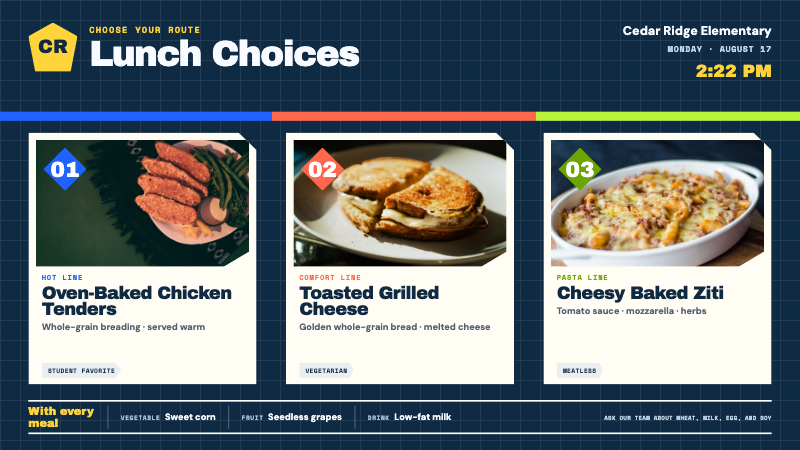
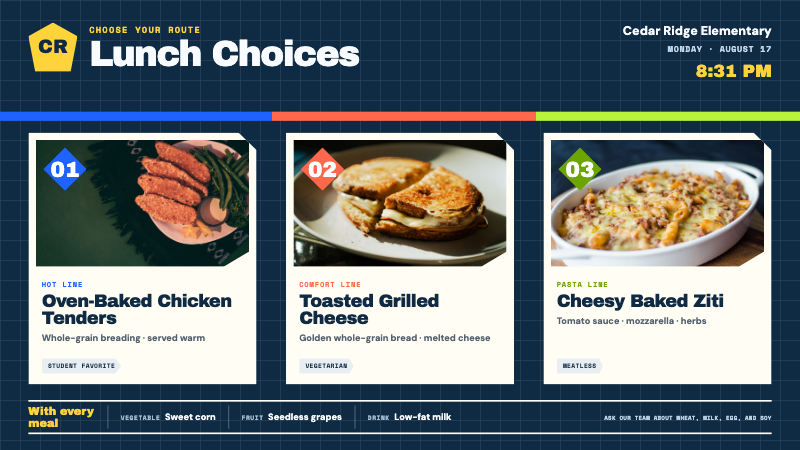
fix(templates): restore Codex-approved geometry exactly — remove my rebalances
The three spacing tweaks I layered onto the approved choice boards
(v2 card copy/tag spacing, v3 portrait school column + clock, v7 window
photo/name/description geometry) were implementation-side design
decisions. Operator rule: implementation never alters approved design.
Production <style> is now byte-identical to the approved mockups modulo
the three sanctioned mechanical substitutions (asset paths, --text-muted
token mapping, inset longhand) — proven by automated diff.

Harness: over-budget stress-copy overlap downgraded to a warning (the
mandated stress strings exceed the published editor budgets; default
copy stays hard-asserted collision-free in the generic pass, and
anything escaping the stage still fails). WebKit canary green, taurus
clean, 3 posters regenerated, POSTER_VERSION 20260816b.

diff --git a/apps/web/public/templates/school/elem-lunch-v7-counter-windows.html b/apps/web/public/templates/school/elem-lunch-v7-counter-windows.html
@@ -11,7 +11,7 @@
     :root{--sw:1920px;--sh:1080px;--ss:1;--bg:#6b39ef;--surface:#fff7dc;--text:#1d123d;--text-muted:#5b506f;--primary:#6b39ef;--secondary:#ff79ad;--accent:#81e6c5;--accent2:#ffe23f;--positive:#81e6c5;--negative:#ff9a4a;--ink:var(--text);--paper:var(--surface);--mint:var(--accent);--pink:var(--secondary);--orange:var(--negative);--sun:var(--accent2);--font-display:"Bowlby One";--font-body:"DM Sans";--font-condensed:"Roboto Mono";--font-mono:var(--font-condensed)}*{box-sizing:border-box}html,body{margin:0;width:100%;height:100%;overflow:hidden;background:#241047;font-family:var(--font-body),sans-serif}.viewport{position:fixed;top:0;right:0;bottom:0;left:0;display:grid;place-items:center}.outer{width:calc(var(--sw)*var(--ss));height:calc(var(--sh)*var(--ss))}.stage{position:relative;width:var(--sw);height:var(--sh);overflow:hidden;transform:scale(var(--ss));transform-origin:0 0;background:var(--bg);color:white}.board-bg{position:absolute;top:0;right:0;bottom:0;left:0;background-color:rgba(107,57,239,.72);background-position:center;background-size:cover;background-repeat:no-repeat;background-blend-mode:multiply}.brand.has-img span{display:none}.dots{position:absolute;top:0;right:0;bottom:0;left:0;opacity:.17;background-image:radial-gradient(#fff 4px,transparent 4px);background-size:42px 42px}.sun{position:absolute;right:-150px;top:-190px;width:600px;height:600px;background:var(--sun);clip-path:circle(50%)}
     .header{position:absolute;left:64px;top:48px;width:1792px;height:190px;display:flex}.brand{width:140px;height:140px;background:var(--mint);color:var(--ink);display:grid;place-items:center;font:400 48px var(--font-display);clip-path:polygon(0 20%,22% 20%,22% 0,78% 0,78% 20%,100% 20%,100% 80%,78% 80%,78% 100%,22% 100%,22% 80%,0 80%);background-size:cover;background-position:center}.heading{margin-left:30px}.kicker{font:700 20px var(--font-mono);letter-spacing:.16em;text-transform:uppercase;color:var(--sun)}.title{margin-top:7px;font:400 76px/.9 var(--font-display);letter-spacing:-.025em}.details{margin-left:auto;width:360px;padding-top:14px;text-align:right;color:var(--ink)}.school{font:800 27px/1.12 var(--font-body)}.date{margin-top:11px;font:700 18px var(--font-mono);text-transform:uppercase}.clock{margin-top:8px;font:400 38px var(--font-display)}
     .awning{position:absolute;left:64px;top:250px;width:1792px;height:66px;display:flex;overflow:hidden;clip-path:polygon(0 0,100% 0,98% 100%,2% 100%)}.awning span{width:224px;height:66px}.awning span:nth-child(odd){background:var(--paper)}.awning span:nth-child(even){background:var(--pink)}
-    .window{position:absolute;top:338px;width:544px;height:558px;background:var(--paper);color:var(--ink);clip-path:polygon(0 86px,16px 52px,40px 24px,76px 7px,468px 7px,504px 24px,528px 52px,544px 86px,544px 100%,0 100%)}.w1{left:64px}.w2{left:688px}.w3{left:1312px}.photo{position:absolute;left:18px;top:94px;width:508px;height:260px;background-size:cover;background-position:center}.w1 .photo{background-image:url("menu-assets/chicken-tenders.jpg")}.w2 .photo{background-image:url("menu-assets/grilled-cheese.jpg")}.w3 .photo{background-image:url("menu-assets/baked-ziti.jpg")}.choice-no{position:absolute;left:28px;top:40px;font:700 17px var(--font-mono);letter-spacing:.12em;text-transform:uppercase}.w1 .choice-no{color:var(--primary)}.w2 .choice-no{color:var(--secondary)}.w3 .choice-no{color:var(--negative)}.name{position:absolute;left:28px;top:382px;width:488px;font:400 38px/.94 var(--font-display);letter-spacing:-.02em}.description{position:absolute;left:28px;top:494px;width:480px;font:700 20px/1.2 var(--font-body);color:var(--text-muted)}.flag{position:absolute;right:0;top:28px;width:165px;height:45px;padding:12px 0 0 25px;color:white;font:700 13px var(--font-mono);letter-spacing:.07em;text-transform:uppercase;clip-path:polygon(14% 0,100% 0,100% 100%,14% 100%,0 50%)}.w1 .flag{background:var(--primary)}.w2 .flag{background:var(--secondary)}.w3 .flag{background:var(--negative)}
+    .window{position:absolute;top:338px;width:544px;height:558px;background:var(--paper);color:var(--ink);clip-path:polygon(0 86px,16px 52px,40px 24px,76px 7px,468px 7px,504px 24px,528px 52px,544px 86px,544px 100%,0 100%)}.w1{left:64px}.w2{left:688px}.w3{left:1312px}.photo{position:absolute;left:18px;top:94px;width:508px;height:280px;background-size:cover;background-position:center}.w1 .photo{background-image:url("menu-assets/chicken-tenders.jpg")}.w2 .photo{background-image:url("menu-assets/grilled-cheese.jpg")}.w3 .photo{background-image:url("menu-assets/baked-ziti.jpg")}.choice-no{position:absolute;left:28px;top:40px;font:700 17px var(--font-mono);letter-spacing:.12em;text-transform:uppercase}.w1 .choice-no{color:var(--primary)}.w2 .choice-no{color:var(--secondary)}.w3 .choice-no{color:var(--negative)}.name{position:absolute;left:28px;top:402px;width:488px;font:400 38px/.94 var(--font-display);letter-spacing:-.02em}.description{position:absolute;left:28px;top:486px;width:480px;font:700 20px/1.2 var(--font-body);color:var(--text-muted)}.flag{position:absolute;right:0;top:28px;width:165px;height:45px;padding:12px 0 0 25px;color:white;font:700 13px var(--font-mono);letter-spacing:.07em;text-transform:uppercase;clip-path:polygon(14% 0,100% 0,100% 100%,14% 100%,0 50%)}.w1 .flag{background:var(--primary)}.w2 .flag{background:var(--secondary)}.w3 .flag{background:var(--negative)}
     .counter{position:absolute;left:64px;bottom:46px;width:1792px;height:112px;background:var(--ink);display:flex;align-items:center;clip-path:polygon(0 0,98% 0,100% 28%,100% 100%,2% 100%,0 72%)}.counter-title{width:270px;padding-left:36px;font:400 25px var(--font-display);color:var(--sun)}.side{height:66px;width:340px;padding:7px 24px;border-left:3px solid rgba(255,255,255,.25)}.side b{display:block;font:700 13px var(--font-mono);letter-spacing:.11em;text-transform:uppercase;color:var(--mint)}.side span{font:800 21px var(--font-body)}.allergen{margin-left:auto;width:420px;padding-right:38px;font:700 13px/1.35 var(--font-mono);text-align:right;text-transform:uppercase;color:#d9cff4}
     .is-portrait .sun{right:-260px;top:-290px}.is-portrait .header{left:48px;top:42px;width:984px;height:244px}.is-portrait .brand{width:112px;height:112px;font-size:39px}.is-portrait .heading{margin-left:24px}.is-portrait .title{font-size:62px}.is-portrait .details{position:absolute;left:0;top:144px;width:984px;text-align:left;display:flex;align-items:center}.is-portrait .school{font-size:24px}.is-portrait .date{margin:0 0 0 auto;font-size:16px}.is-portrait .clock{margin:0 0 0 22px;font-size:31px}.is-portrait .awning{left:48px;top:306px;width:984px}.is-portrait .awning span{width:123px}.is-portrait .window{left:48px;width:984px;height:396px;clip-path:polygon(0 68px,18px 38px,50px 13px,88px 0,896px 0,934px 13px,966px 38px,984px 68px,984px 100%,0 100%)}.is-portrait .w1{top:394px}.is-portrait .w2{top:824px}.is-portrait .w3{top:1254px}.is-portrait .photo{left:18px;top:78px;width:390px;height:300px}.is-portrait .choice-no{top:30px}.is-portrait .flag{top:22px}.is-portrait .name{left:448px;top:100px;width:485px;font-size:44px}.is-portrait .description{left:448px;top:232px;width:485px;font-size:22px}.is-portrait .counter{left:48px;bottom:40px;width:984px;height:180px;display:grid;grid-template-columns:220px 1fr 1fr}.is-portrait .counter-title{grid-row:1/3;width:220px;padding-left:28px}.is-portrait .side{width:auto;height:68px;padding-left:18px}.is-portrait .allergen{position:absolute;left:238px;bottom:9px;width:700px;text-align:left;font-size:11px}
   </style>

diff --git a/apps/web/public/templates/school/elem-lunch-v2.html b/apps/web/public/templates/school/elem-lunch-v2.html
@@ -13,7 +13,7 @@
     *{box-sizing:border-box}html,body{margin:0;width:100%;height:100%;overflow:hidden;background:#07192a;font-family:var(--font-body),sans-serif}.viewport{position:fixed;top:0;right:0;bottom:0;left:0;display:grid;place-items:center}.outer{width:calc(var(--sw)*var(--ss));height:calc(var(--sh)*var(--ss))}.stage{position:relative;width:var(--sw);height:var(--sh);overflow:hidden;transform:scale(var(--ss));transform-origin:0 0;background:var(--bg);color:var(--ink)}.board-bg{position:absolute;top:0;right:0;bottom:0;left:0;background-color:rgba(16,42,67,.76);background-position:center;background-size:cover;background-repeat:no-repeat;background-blend-mode:multiply}.logo.has-img span{display:none}
     .route-grid{position:absolute;top:0;right:0;bottom:0;left:0;opacity:.12;background-image:linear-gradient(rgba(255,255,255,.7) 2px,transparent 2px),linear-gradient(90deg,rgba(255,255,255,.7) 2px,transparent 2px);background-size:48px 48px}.route-line{position:absolute;left:0;top:268px;width:1920px;height:22px;background:linear-gradient(90deg,var(--blue) 0 34%,var(--coral) 34% 67%,var(--lime) 67%)}
     .header{position:absolute;left:68px;top:54px;width:1784px;height:176px;display:flex;align-items:flex-start}.logo{width:118px;height:118px;background:var(--sun);color:var(--navy);display:grid;place-items:center;font:400 46px var(--font-display);clip-path:polygon(50% 0,100% 28%,86% 100%,14% 100%,0 28%);background-position:center;background-size:cover}.identity{margin-left:28px}.kicker{font:700 21px var(--font-mono);letter-spacing:.14em;text-transform:uppercase;color:var(--sun)}.title{margin-top:6px;font:400 86px/.88 var(--font-display);letter-spacing:-.04em}.meta{margin-left:auto;text-align:right}.school{font:800 30px var(--font-body)}.date{margin-top:10px;font:700 20px var(--font-mono);letter-spacing:.08em;color:#c4d9ea;text-transform:uppercase}.clock{margin-top:16px;font:400 42px var(--font-display);color:var(--sun)}
-    .choice{position:absolute;top:318px;width:548px;height:605px;background:var(--paper);color:var(--navy);clip-path:polygon(0 0,92% 0,100% 7%,100% 100%,0 100%)}.c1{left:68px}.c2{left:686px}.c3{left:1304px}.photo{position:absolute;left:18px;top:18px;width:512px;height:304px;background-position:center;background-size:cover;clip-path:polygon(0 0,100% 0,100% 88%,88% 100%,0 100%)}.c1 .photo{background-image:url("menu-assets/chicken-tenders.jpg")}.c2 .photo{background-image:url("menu-assets/grilled-cheese.jpg")}.c3 .photo{background-image:url("menu-assets/baked-ziti.jpg")}.number{position:absolute;left:36px;top:36px;width:104px;height:104px;display:grid;place-items:center;color:white;font:400 52px var(--font-display);clip-path:polygon(50% 0,100% 50%,50% 100%,0 50%)}.c1 .number{background:var(--blue)}.c2 .number{background:var(--coral)}.c3 .number{background:var(--positive)}.copy{position:absolute;left:32px;top:334px;width:484px}.label{font:700 17px var(--font-mono);letter-spacing:.12em;text-transform:uppercase}.c1 .label{color:var(--blue)}.c2 .label{color:var(--coral)}.c3 .label{color:var(--positive)}.name{margin-top:6px;font:400 43px/.92 var(--font-display);letter-spacing:-.035em}.description{margin-top:10px;font:700 22px/1.16 var(--font-body);color:#53606d}.tag{position:absolute;left:32px;bottom:16px;height:37px;padding:7px 15px 0;background:#e9eef2;font:700 15px var(--font-mono);letter-spacing:.06em;text-transform:uppercase;clip-path:polygon(0 0,92% 0,100% 50%,92% 100%,0 100%)}
+    .choice{position:absolute;top:318px;width:548px;height:605px;background:var(--paper);color:var(--navy);clip-path:polygon(0 0,92% 0,100% 7%,100% 100%,0 100%)}.c1{left:68px}.c2{left:686px}.c3{left:1304px}.photo{position:absolute;left:18px;top:18px;width:512px;height:304px;background-position:center;background-size:cover;clip-path:polygon(0 0,100% 0,100% 88%,88% 100%,0 100%)}.c1 .photo{background-image:url("menu-assets/chicken-tenders.jpg")}.c2 .photo{background-image:url("menu-assets/grilled-cheese.jpg")}.c3 .photo{background-image:url("menu-assets/baked-ziti.jpg")}.number{position:absolute;left:36px;top:36px;width:104px;height:104px;display:grid;place-items:center;color:white;font:400 52px var(--font-display);clip-path:polygon(50% 0,100% 50%,50% 100%,0 50%)}.c1 .number{background:var(--blue)}.c2 .number{background:var(--coral)}.c3 .number{background:var(--positive)}.copy{position:absolute;left:32px;top:351px;width:484px}.label{font:700 17px var(--font-mono);letter-spacing:.12em;text-transform:uppercase}.c1 .label{color:var(--blue)}.c2 .label{color:var(--coral)}.c3 .label{color:var(--positive)}.name{margin-top:9px;font:400 43px/.95 var(--font-display);letter-spacing:-.035em}.description{margin-top:13px;font:700 22px/1.24 var(--font-body);color:#53606d}.tag{position:absolute;left:32px;bottom:26px;height:37px;padding:7px 15px 0;background:#e9eef2;font:700 15px var(--font-mono);letter-spacing:.06em;text-transform:uppercase;clip-path:polygon(0 0,92% 0,100% 50%,92% 100%,0 100%)}
     .footer{position:absolute;left:68px;bottom:38px;width:1784px;height:82px;display:flex;align-items:center;border-top:4px solid #fff;border-bottom:4px solid #fff}.footer-label{width:190px;font:400 27px var(--font-display);color:var(--sun)}.side{height:56px;display:flex;align-items:center;padding:0 30px;border-left:2px solid rgba(255,255,255,.35);font:800 22px var(--font-body)}.side b{margin-right:11px;font:700 15px var(--font-mono);letter-spacing:.09em;text-transform:uppercase;color:#a7c0d4}.allergen{margin-left:auto;font:700 14px var(--font-mono);letter-spacing:.04em;text-transform:uppercase;color:#c4d9ea}
     .is-portrait .route-line{top:286px;width:1080px;background:linear-gradient(90deg,var(--blue) 0 33%,var(--coral) 33% 66%,var(--lime) 66%)}.is-portrait .header{left:50px;top:44px;width:980px;height:204px}.is-portrait .logo{width:105px;height:105px;font-size:41px}.is-portrait .identity{margin-left:22px}.is-portrait .title{font-size:70px}.is-portrait .meta{position:absolute;left:0;top:132px;width:980px;text-align:left;display:flex;align-items:center}.is-portrait .school{font-size:25px}.is-portrait .date{margin:0 0 0 auto;font-size:16px}.is-portrait .clock{margin:0 0 0 24px;font-size:31px}.is-portrait .choice{left:50px;width:980px;height:432px}.is-portrait .c1{top:340px}.is-portrait .c2{top:806px}.is-portrait .c3{top:1272px}.is-portrait .photo{left:18px;top:18px;width:395px;height:396px;clip-path:polygon(0 0,100% 0,100% 92%,88% 100%,0 100%)}.is-portrait .number{left:48px;top:48px}.is-portrait .copy{left:448px;top:45px;width:486px}.is-portrait .name{font-size:47px}.is-portrait .description{font-size:23px}.is-portrait .tag{left:448px;bottom:38px}.is-portrait .footer{left:50px;bottom:42px;width:980px;height:160px;display:grid;grid-template-columns:185px 1fr 1fr}.is-portrait .footer-label{grid-row:1/3}.is-portrait .side{height:54px;padding:0 18px;font-size:19px}.is-portrait .allergen{position:absolute;left:185px;bottom:5px;font-size:12px}
   </style>

diff --git a/apps/web/public/templates/school/elem-lunch-v3.html b/apps/web/public/templates/school/elem-lunch-v3.html
@@ -13,7 +13,7 @@
     .lead{position:absolute;left:58px;top:290px;width:868px;height:630px;border-right:4px solid var(--ink)}.lead-photo{position:absolute;left:0;top:0;width:818px;height:392px;background:url("menu-assets/chicken-tenders.jpg") center/cover;filter:saturate(.9) contrast(1.03)}.lead-stamp{position:absolute;left:28px;top:30px;width:174px;height:174px;display:grid;place-items:center;text-align:center;background:var(--red);color:white;font:900 27px/.95 var(--font-display);clip-path:polygon(50% 0,61% 30%,88% 12%,73% 40%,100% 50%,73% 60%,88% 88%,61% 70%,50% 100%,39% 70%,12% 88%,27% 60%,0 50%,27% 40%,12% 12%,39% 30%);transform:rotate(-8deg)}.lead-kicker{position:absolute;left:0;top:420px;font:700 17px var(--font-mono);letter-spacing:.12em;text-transform:uppercase;color:var(--red)}.lead-name{position:absolute;left:0;top:452px;width:795px;font:900 62px/.94 var(--font-display);letter-spacing:-.04em}.lead-copy{position:absolute;left:0;top:572px;width:790px;font:700 22px/1.24 var(--font-body);color:#4c4842}
     .choices{position:absolute;left:980px;top:290px;width:882px;height:630px}.section-title{height:52px;border-top:4px solid var(--ink);border-bottom:2px solid var(--ink);display:flex;align-items:center;justify-content:space-between;font:900 29px var(--font-display)}.section-title .section-note{font:700 14px var(--font-mono);letter-spacing:.1em;text-transform:uppercase;color:var(--text-muted)}.choice{position:relative;height:249px;border-bottom:3px solid var(--ink);padding:27px 0 20px 280px}.thumb{position:absolute;left:0;top:24px;width:244px;height:200px;background-position:center;background-size:cover}.choice.two .thumb{background-image:url("menu-assets/grilled-cheese.jpg")}.choice.three .thumb{background-image:url("menu-assets/baked-ziti.jpg")}.index{font:700 15px var(--font-mono);letter-spacing:.12em;text-transform:uppercase}.two .index{color:var(--blue)}.three .index{color:var(--green)}.choice-name{margin-top:10px;font:900 45px/.92 var(--font-display);letter-spacing:-.035em}.choice-copy{margin-top:13px;font:700 20px/1.28 var(--font-body);color:var(--text-muted)}.pill{position:absolute;right:0;bottom:22px;padding:8px 14px 7px;color:white;font:700 13px var(--font-mono);letter-spacing:.08em;text-transform:uppercase;clip-path:polygon(8px 0,100% 0,calc(100% - 8px) 100%,0 100%)}.two .pill{background:var(--blue)}.three .pill{background:var(--green)}
     .footer{position:absolute;left:58px;bottom:48px;width:1804px;height:92px;border-top:5px solid var(--ink);border-bottom:5px solid var(--ink);display:flex;align-items:center}.footer-title{width:236px;font:900 28px var(--font-display)}.fact{height:58px;width:330px;padding:5px 26px;border-left:2px solid var(--ink)}.fact b{display:block;font:700 13px var(--font-mono);letter-spacing:.1em;text-transform:uppercase;color:var(--red)}.fact span{font:800 22px var(--font-body)}.allergen{margin-left:auto;width:430px;font:700 14px/1.35 var(--font-mono);text-transform:uppercase;text-align:right;color:var(--text-muted)}
-    .is-portrait .top-rule{left:42px;top:36px;width:996px}.is-portrait .masthead{left:42px;top:60px;width:996px;height:248px}.is-portrait .logo{width:64px;height:64px;margin-right:14px;font-size:21px}.is-portrait .edition{width:150px;font-size:14px}.is-portrait .headline{position:absolute;left:0;top:82px;width:996px;font-size:77px}.is-portrait .headline small{font-size:13px}.is-portrait .school{width:360px;font-size:20px}.is-portrait .school .clock{font-size:32px;width:max-content;margin-left:auto}.is-portrait .lead{left:42px;top:346px;width:996px;height:690px;border-right:0;border-bottom:4px solid var(--ink)}.is-portrait .lead-photo{width:996px;height:424px}.is-portrait .lead-name{top:490px;width:930px;font-size:61px}.is-portrait .lead-kicker{top:458px}.is-portrait .lead-copy{top:606px;width:930px}.is-portrait .choices{left:42px;top:1080px;width:996px;height:555px}.is-portrait .choice{height:250px;padding-left:326px}.is-portrait .thumb{width:286px}.is-portrait .choice-name{font-size:47px}.is-portrait .footer{left:42px;bottom:38px;width:996px;height:202px;display:grid;grid-template-columns:200px 1fr 1fr}.is-portrait .footer-title{grid-row:1/3;width:200px}.is-portrait .fact{width:auto;height:70px;padding:8px 20px}.is-portrait .allergen{position:absolute;left:220px;bottom:7px;width:730px;text-align:left;font-size:12px}
+    .is-portrait .top-rule{left:42px;top:36px;width:996px}.is-portrait .masthead{left:42px;top:60px;width:996px;height:248px}.is-portrait .logo{width:64px;height:64px;margin-right:14px;font-size:21px}.is-portrait .edition{width:150px;font-size:14px}.is-portrait .headline{position:absolute;left:0;top:82px;width:996px;font-size:77px}.is-portrait .headline small{font-size:13px}.is-portrait .school{width:280px;font-size:20px}.is-portrait .school .clock{font-size:32px}.is-portrait .lead{left:42px;top:346px;width:996px;height:690px;border-right:0;border-bottom:4px solid var(--ink)}.is-portrait .lead-photo{width:996px;height:424px}.is-portrait .lead-name{top:490px;width:930px;font-size:61px}.is-portrait .lead-kicker{top:458px}.is-portrait .lead-copy{top:606px;width:930px}.is-portrait .choices{left:42px;top:1080px;width:996px;height:555px}.is-portrait .choice{height:250px;padding-left:326px}.is-portrait .thumb{width:286px}.is-portrait .choice-name{font-size:47px}.is-portrait .footer{left:42px;bottom:38px;width:996px;height:202px;display:grid;grid-template-columns:200px 1fr 1fr}.is-portrait .footer-title{grid-row:1/3;width:200px}.is-portrait .fact{width:auto;height:70px;padding:8px 20px}.is-portrait .allergen{position:absolute;left:220px;bottom:7px;width:730px;text-align:left;font-size:12px}
   </style>
 <script>/*EDUCMS-SHIM-V8*/(function(){try{
 var editMode=false;

diff --git a/apps/web/src/components/templates/ScaledTemplateThumbnail.tsx b/apps/web/src/components/templates/ScaledTemplateThumbnail.tsx
@@ -123,7 +123,7 @@ function posterFor(zones: Zone[]): string | null {
 
 /** Bump on every poster regeneration so browsers/CDN refetch the new PNGs.
  *  Date-based; append a letter for multiple regens in one day (…24b). */
-const POSTER_VERSION = '20260816a';
+const POSTER_VERSION = '20260816b';
 
 export function ScaledTemplateThumbnail({
   zones, screenWidth, screenHeight, bgImage, bgGradient, bgColor, maxHeight = 150, freeze = false,
